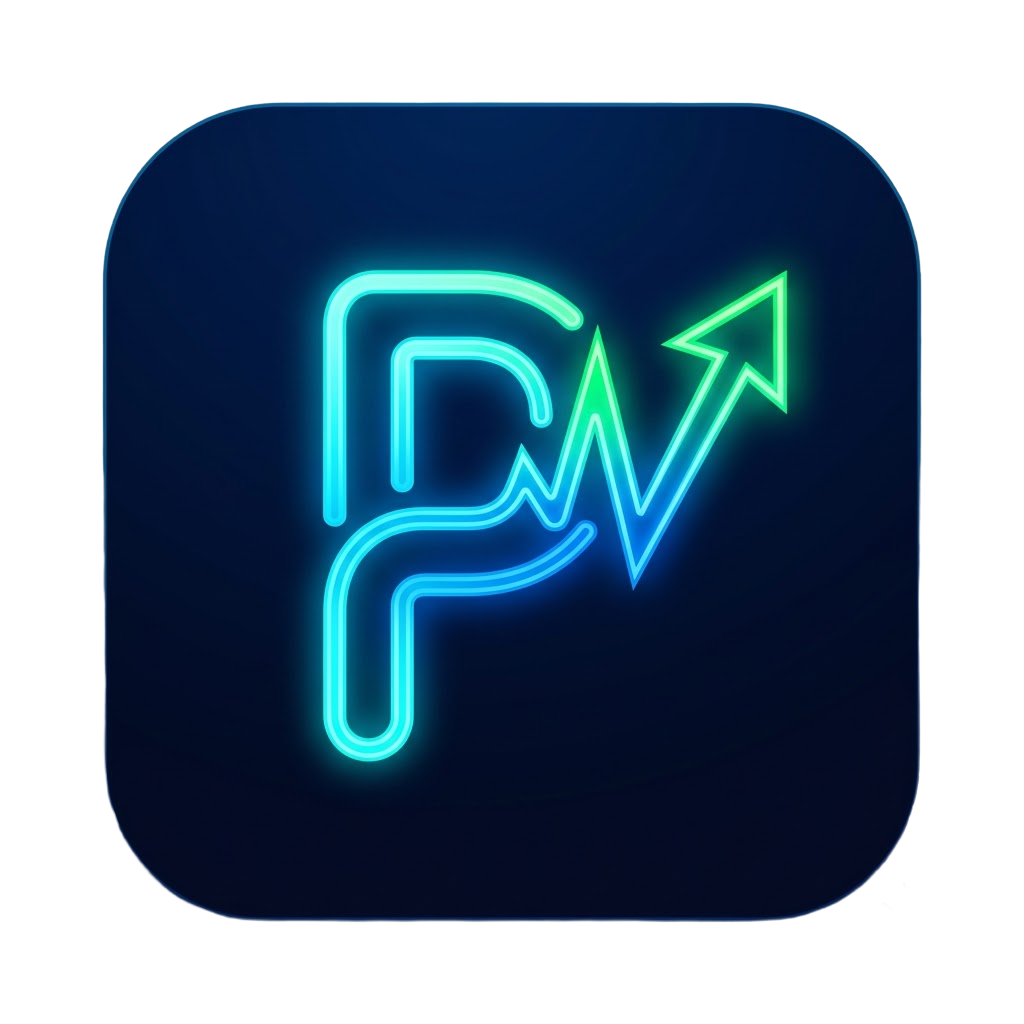
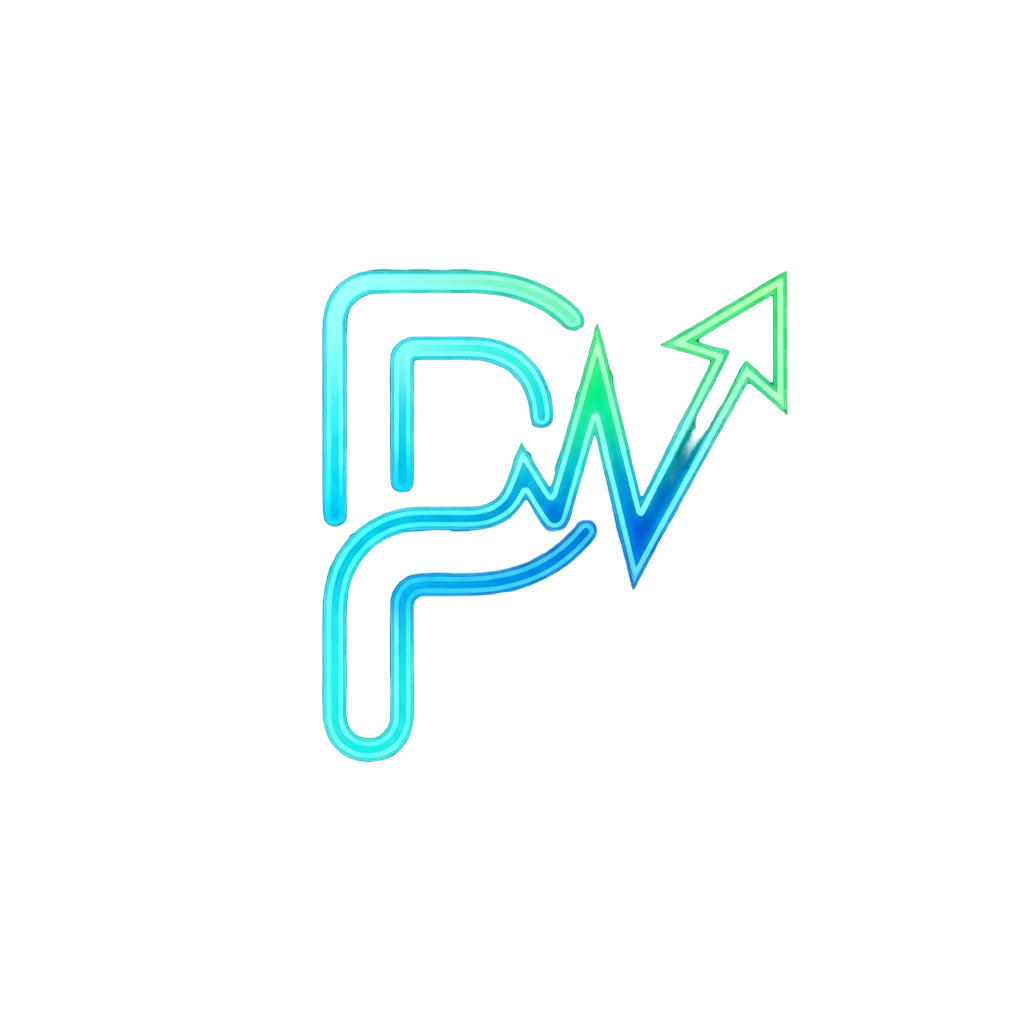
chore: carry over other pending local changes
Updated app icon assets, two reference screenshots, and small edits to
deals_provider.dart/paged_deals_provider.dart already sitting in this
working tree before this round of work started — bundled here as-is
rather than individually described, since they predate and are unrelated
to everything in the commits above.

diff --git a/lib/features/deals/providers/deals_provider.dart b/lib/features/deals/providers/deals_provider.dart
@@ -29,10 +29,9 @@ class DealFeedNotifier extends _$DealFeedNotifier {
 
   Future<List<Deal>> _fetchFromApi(String region) async {
     try {
-      final timestamp = DateTime.now().millisecondsSinceEpoch;
       final response = await apiGet(
         '/api/products',
-        queryParameters: {'region': region, 't': '$timestamp'},
+        queryParameters: {'region': region},
       );
 
       final List<dynamic> data = json.decode(response.body);

diff --git a/lib/features/deals/providers/deals_provider.g.dart b/lib/features/deals/providers/deals_provider.g.dart
@@ -33,7 +33,7 @@ final class DealFeedNotifierProvider
   DealFeedNotifier create() => DealFeedNotifier();
 }
 
-String _$dealFeedNotifierHash() => r'eb387ce588c1bc1e9c4134952e9ac22b095306e9';
+String _$dealFeedNotifierHash() => r'c331aec3ba5097a7f85aa674f079e3258fbfcdb8';
 
 abstract class _$DealFeedNotifier extends $AsyncNotifier<List<Deal>> {
   FutureOr<List<Deal>> build();

diff --git a/lib/features/deals/providers/paged_deals_provider.dart b/lib/features/deals/providers/paged_deals_provider.dart
@@ -69,7 +69,6 @@ Future<PagedDealsResult> pagedDeals(Ref ref) async {
   final region = ref.watch(regionProvider);
   final page = ref.watch(feedPageIndexProvider);
   final sort = ref.watch(feedFiltersProvider.select((f) => f.sort));
-  final timestamp = DateTime.now().millisecondsSinceEpoch;
 
   final sortParam = _sortParam(sort);
   final response = await apiGet(
@@ -78,7 +77,6 @@ Future<PagedDealsResult> pagedDeals(Ref ref) async {
       'region': region,
       'page': '$page',
       'limit': '$dealsPageSize',
-      't': '$timestamp',
       'sort': ?sortParam,
     },
   );

diff --git a/lib/features/deals/providers/paged_deals_provider.g.dart b/lib/features/deals/providers/paged_deals_provider.g.dart
@@ -115,4 +115,4 @@ final class PagedDealsProvider
   }
 }
 
-String _$pagedDealsHash() => r'738c974d0cb6afc0c4d3520e3697fe386feb065c';
+String _$pagedDealsHash() => r'065f36303ac73b1bd8863dfed673677a177d9d5b';